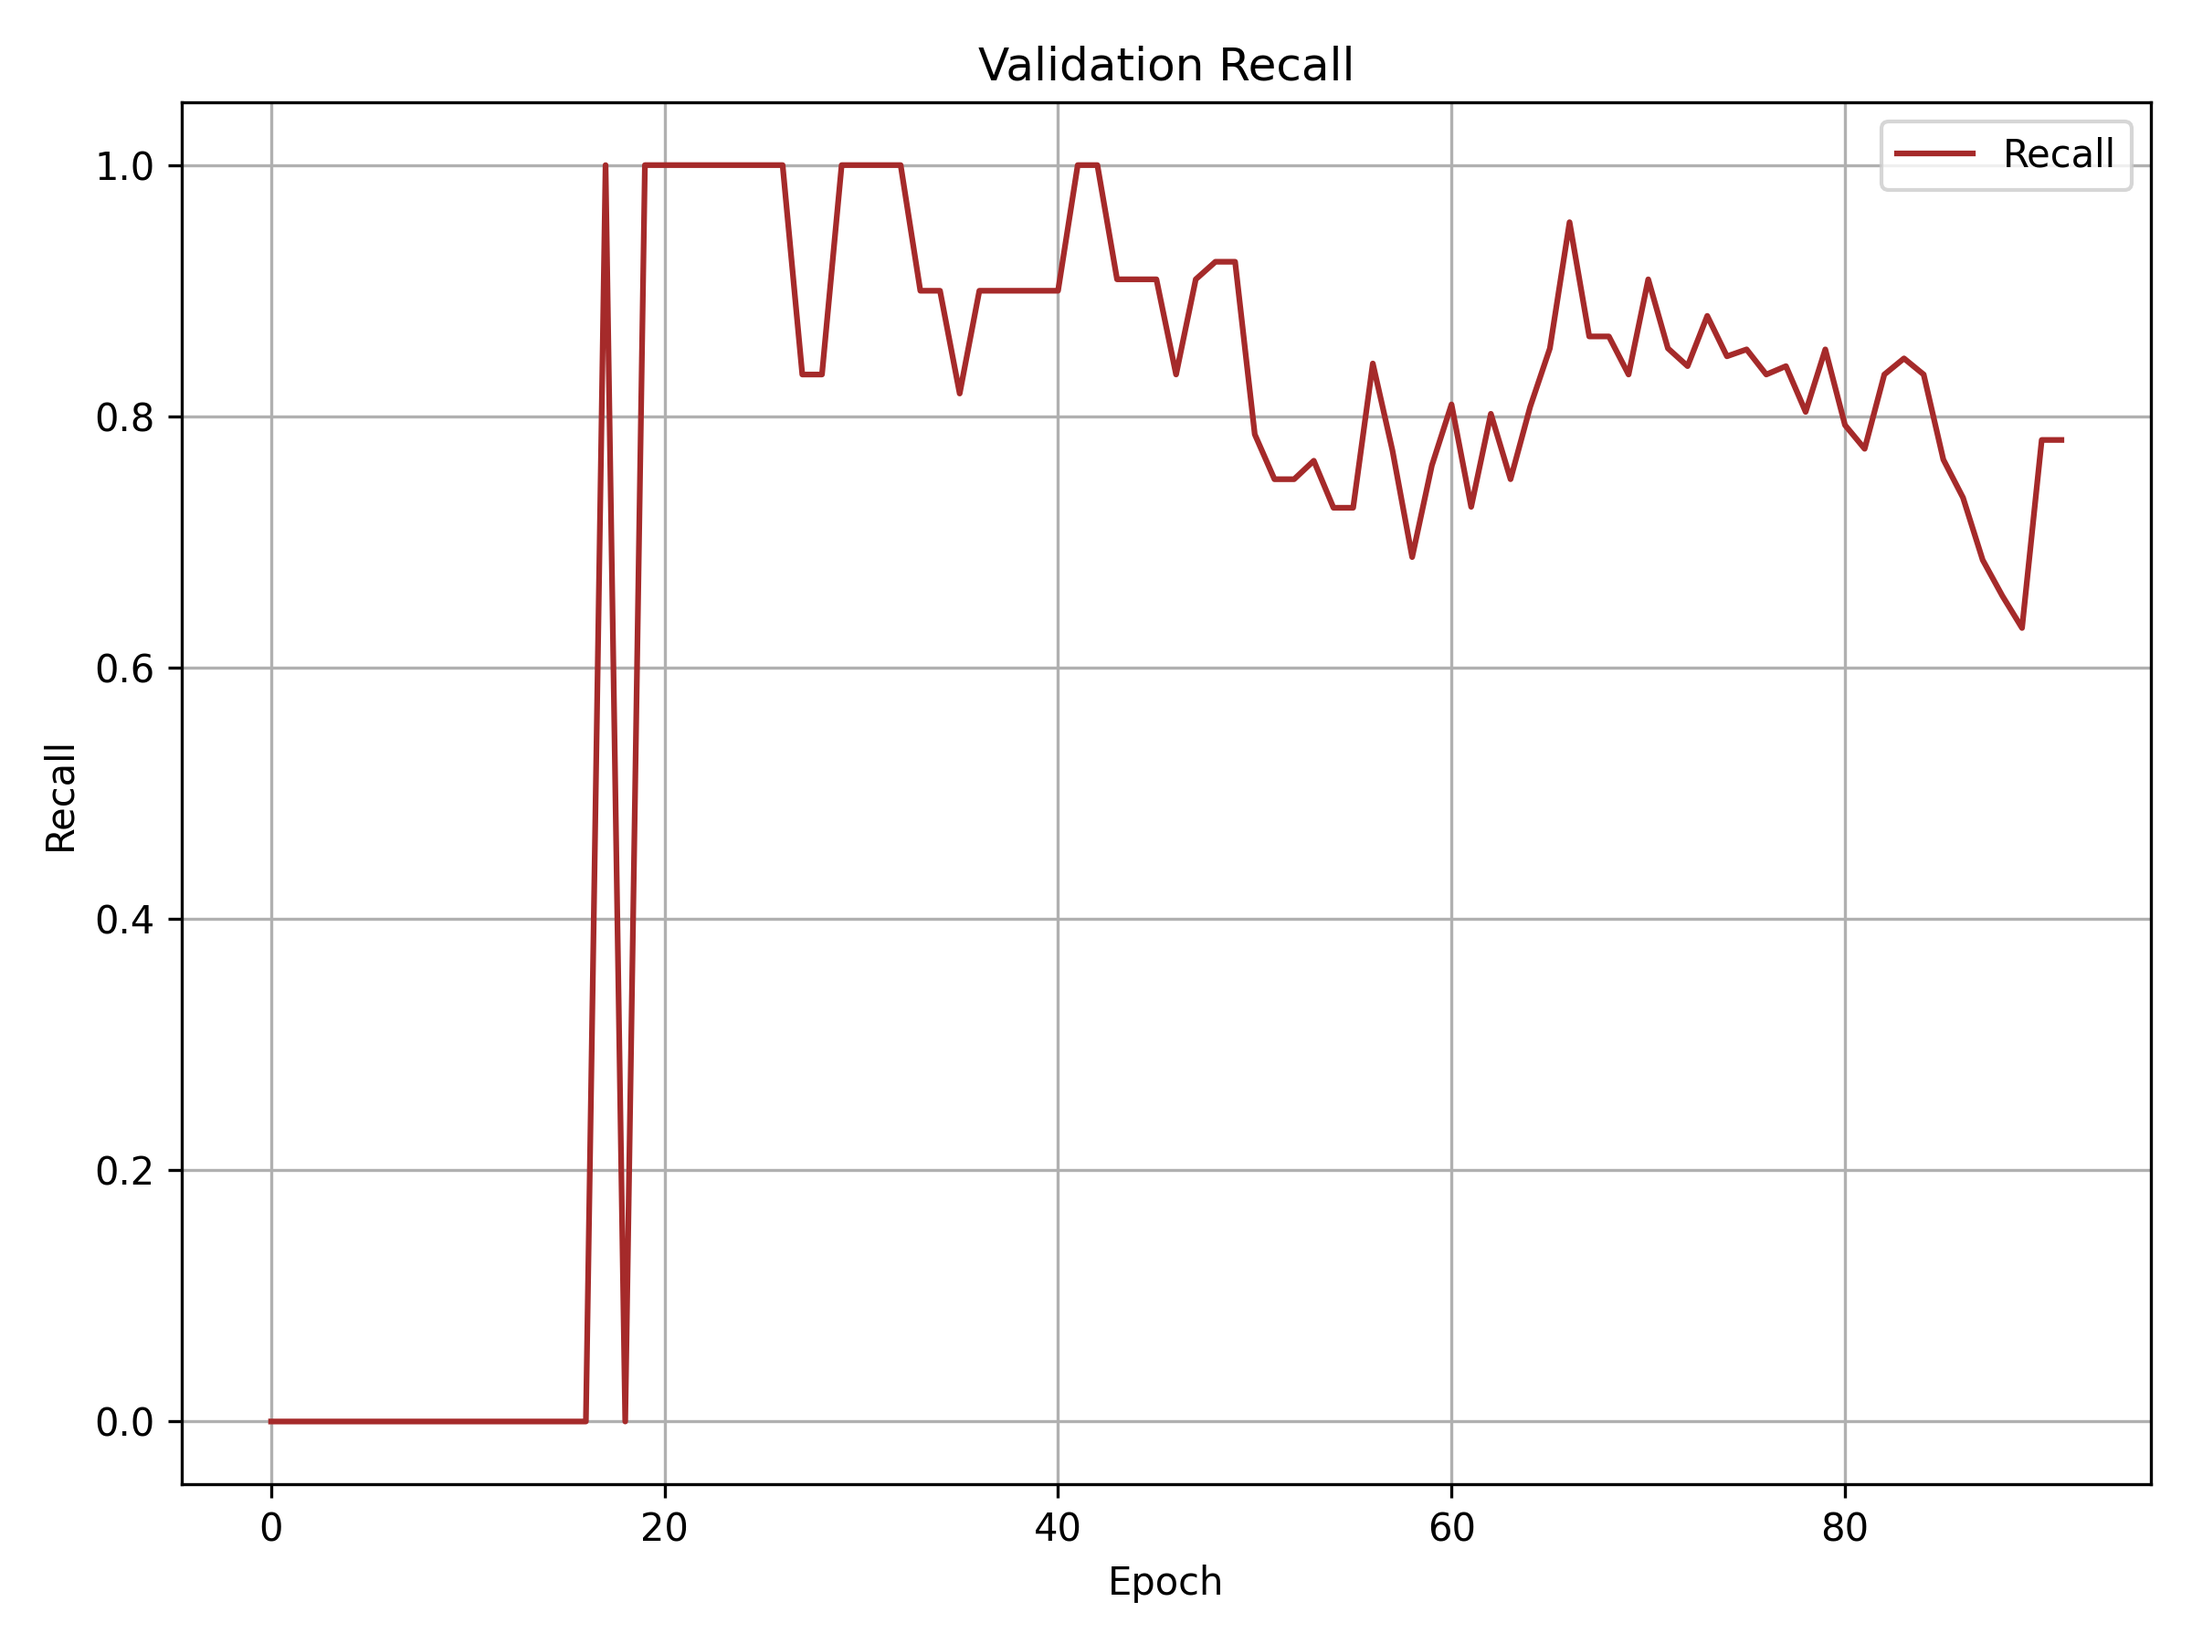
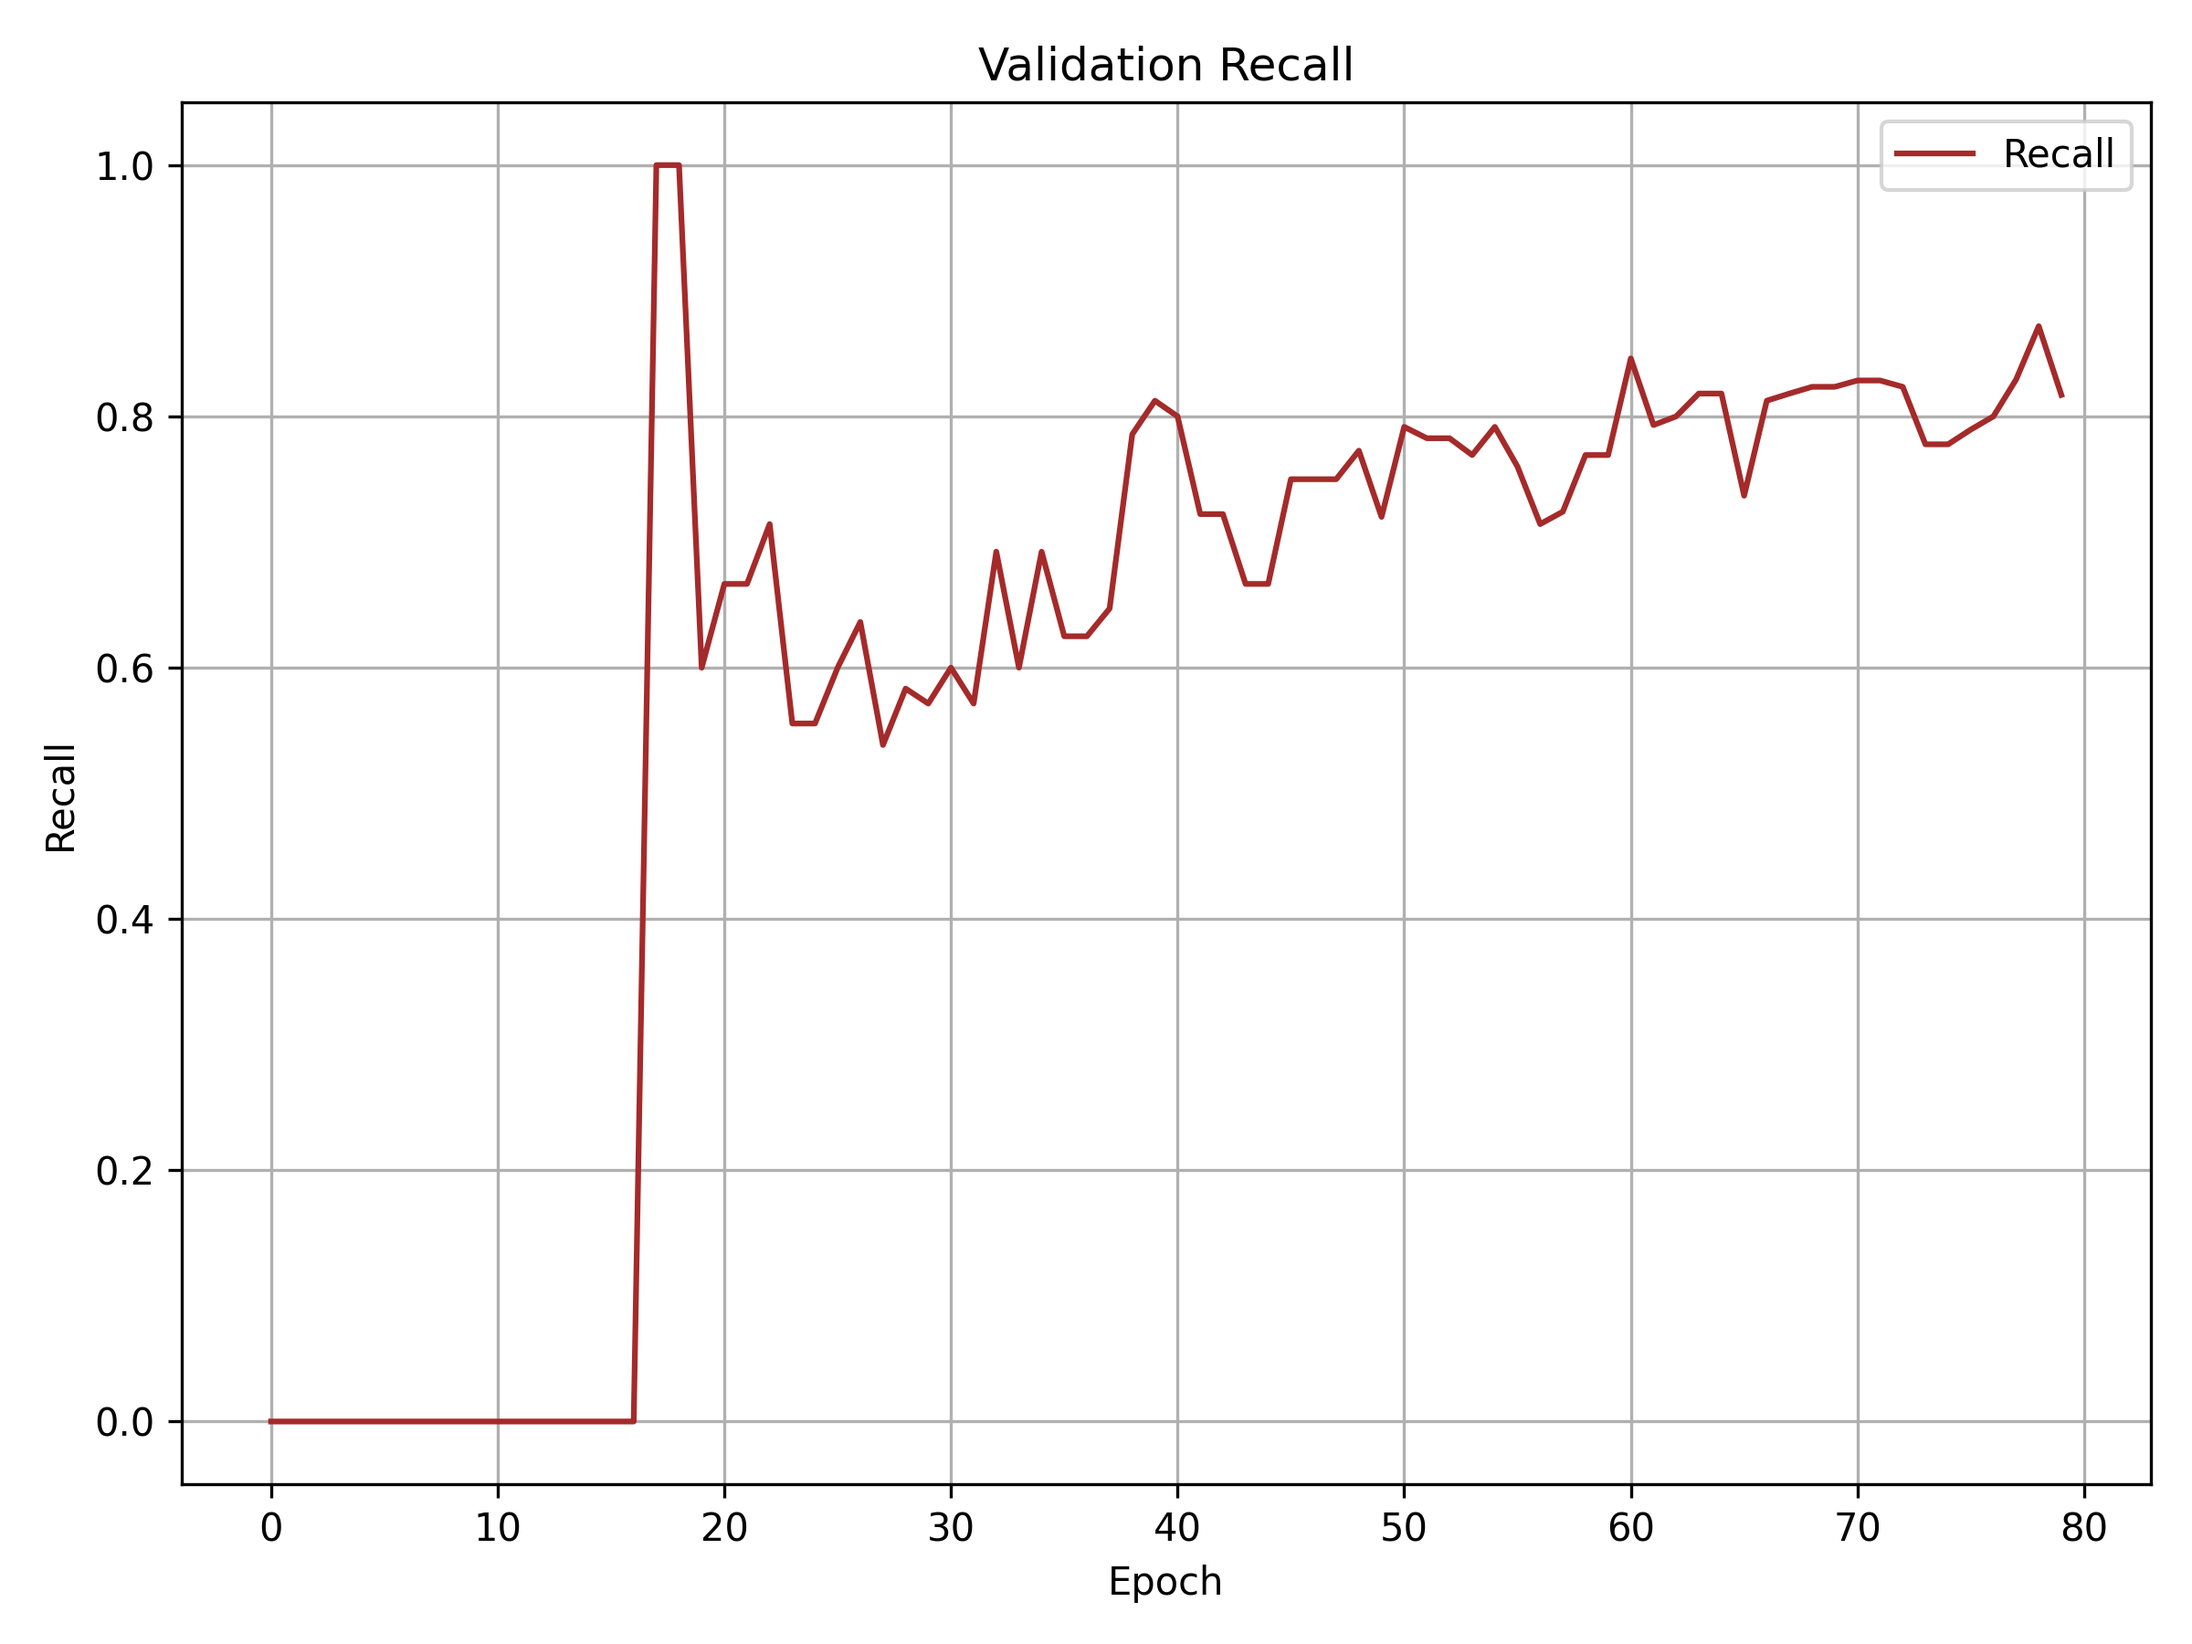
new_db

diff --git a/run.py b/run.py
@@ -20,7 +20,6 @@ def run_training(seed=None):
     lr = 1e-3
     num_epochs = 150
     patience = 20
-    #seed = 42
     
     # Usa seed solo se specificato, altrimenti sarà None
     random.seed(seed)
@@ -82,15 +81,15 @@ def run_training(seed=None):
         else:
             patience_counter += 1
             if patience_counter >= patience:
-                print(f"⏹ Early stopping at epoch {epoch+1}")
+                print(f" Early stopping at epoch {epoch+1}")
                 break
 
 
     if best_model_state is not None:
         model.load_state_dict(best_model_state)
 
-    print(f"✅ Best Validation Loss: {best_val_loss:.4f}")
-    print(f"📊 Average Inference Time: {np.mean(val_inference_times)*1000:.2f}ms")
+    print(f"Best Validation Loss: {best_val_loss:.4f}")
+    print(f"Average Inference Time: {np.mean(val_inference_times)*1000:.2f}ms")
 
     # === Final evaluation with confusion matrix ===
     final_val_loss, final_val_acc, final_val_precision, final_val_recall, final_val_f1, final_inf_time, y_true, y_pred = evaluate(model, val_loader, criterion, device, return_predictions=True)
@@ -107,7 +106,7 @@ def run_training(seed=None):
     plt.tight_layout()
     plt.savefig("train_loss.png", dpi=300)
     plt.close()
-    print("📊 Training loss plot salvato in train_loss.png")
+    print(" Training loss plot salvato in train_loss.png")
 
     # === Plot 2: Accuracy ===
     plt.figure(figsize=(8,6))
@@ -121,7 +120,7 @@ def run_training(seed=None):
     plt.tight_layout()
     plt.savefig("accuracy.png", dpi=300)
     plt.close()
-    print("📊 Accuracy plot salvato in accuracy.png")
+    print(" Accuracy plot salvato in accuracy.png")
 
     # === Plot 3a: Precision ===
     plt.figure(figsize=(8,6))
@@ -134,7 +133,7 @@ def run_training(seed=None):
     plt.tight_layout()
     plt.savefig("precision.png", dpi=300)
     plt.close()
-    print("📊 Precision plot salvato in precision.png")
+    print(" Precision plot salvato in precision.png")
 
     # === Plot 3b: Recall ===
     plt.figure(figsize=(8,6))
@@ -147,7 +146,7 @@ def run_training(seed=None):
     plt.tight_layout()
     plt.savefig("recall.png", dpi=300)
     plt.close()
-    print("📊 Recall plot salvato in recall.png")
+    print(" Recall plot salvato in recall.png")
 
     # === Plot 3c: F1-Score ===
     plt.figure(figsize=(8,6))
@@ -160,7 +159,7 @@ def run_training(seed=None):
     plt.tight_layout()
     plt.savefig("f1_score.png", dpi=300)
     plt.close()
-    print("📊 F1-Score plot salvato in f1_score.png")
+    print(" F1-Score plot salvato in f1_score.png")
 
 
     # === Plot 4: Average Inference Time ===
@@ -174,4 +173,4 @@ def run_training(seed=None):
     plt.tight_layout()
     plt.savefig("inference_time.png", dpi=300)
     plt.close()
-    print("📊 Inference time plot salvato in inference_time.png")
+    print(" Inference time plot salvato in inference_time.png")

diff --git a/server.py b/server.py
@@ -1,6 +1,6 @@
 import socket
 import struct
-from landmarks import landmarks_dist
+from landmarks import landmarks_dist, show_overlay
 import torch
 from model import FaceClassifier
 import joblib
@@ -57,6 +57,18 @@ def handle_client(conn, addr):
                 
                 conn.settimeout(PROCESSING_TIMEOUT)
                 png_data = recv_exact(conn, png_len)
+
+                # FLIP PNG
+                from PIL import Image
+                import io
+
+                png = Image.open(io.BytesIO(png_data))
+                # Flip verticale
+                png_flip = png.transpose(Image.FLIP_TOP_BOTTOM)
+                
+                with io.BytesIO() as output_bytes:
+                    png_flip.save(output_bytes, format='PNG')
+                    png_flip = output_bytes.getvalue()
                 
                 # Ricezione RAW
                 raw_len = struct.unpack('<I', recv_exact(conn, 4))[0]
@@ -66,7 +78,7 @@ def handle_client(conn, addr):
                 # Salvataggio temporaneo dei file
                 with NamedTemporaryFile(delete=False, suffix='.png') as png_file, \
                      NamedTemporaryFile(delete=False, suffix='.raw') as raw_file:
-                    png_file.write(png_data)
+                    png_file.write(png_flip)
                     raw_file.write(raw_data)
                     png_path = png_file.name
                     raw_path = raw_file.name
@@ -74,10 +86,10 @@ def handle_client(conn, addr):
                 try:
                     print("Processing landmarks...")
                     features = landmarks_dist(png_path, raw_path, "unknown", "neutral")
-                    
+                    show_overlay(png_path, raw_path, 640, 480)
                     predicted_label, confidence = predict_identity(features)
 
-                    print(f"✅ Prediction: {predicted_label} (confidence={confidence:.2f})")
+                    print(f"Prediction: {predicted_label} (confidence={confidence:.2f})")
                     conn.sendall(predicted_label.encode('utf-8') + b'\x00')
 
                 finally:
@@ -124,4 +136,3 @@ def run_server():
             except Exception as e:
                 print(f"Error accepting connection: {str(e)}")
                 continue
-

diff --git a/server_realtime.py b/server_realtime.py
@@ -1,7 +1,7 @@
 import socket
 import pyrealsense2 as rs
 import torch
-from landmarks import landmarks_dist
+from vale.landmarks import landmarks_dist
 from model import FaceClassifier
 from predict import predict_identity
 import numpy as np
@@ -42,13 +42,13 @@ def capture_and_process():
         print("Processing landmarks...")
         features = landmarks_dist(color_image, depth_image, "unknown", "neutral")    
         identity, confidence = predict_identity(features)
-        print(f"✅ Prediction: {identity} (confidence={confidence:.2f})")
+        print(f"Prediction: {identity} (confidence={confidence:.2f})")
         
         # Return both identity and confidence
         return {"identity": identity, "confidence": float(confidence)}
     
     except Exception as e:
-        print(f"❌ Error in capture_and_process: {str(e)}")
+        print(f"Error in capture_and_process: {str(e)}")
         return {"error": str(e)}
     finally:
         pipeline.stop()

diff --git a/test.py b/test.py
@@ -125,12 +125,12 @@ def run_test(seed=None):  # Aggiungi seed come parametro opzionale
     print("="*60)
     print("TEST RESULTS")
     print("="*60)
-    print(f"🧪 Test Loss: {test_loss:.4f}")
-    print(f"🧪 Test Accuracy: {test_acc*100:.2f}%")
-    print(f"🧪 Test Precision: {test_precision:.3f}")
-    print(f"🧪 Test Recall: {test_recall:.3f}")
-    print(f"🧪 Test F1-Score: {test_f1:.3f}")
-    print(f"🧪 Average Inference Time: {test_inf_time*1000:.2f}ms")
+    print(f"Test Loss: {test_loss:.4f}")
+    print(f"Test Accuracy: {test_acc*100:.2f}%")
+    print(f"Test Precision: {test_precision:.3f}")
+    print(f"Test Recall: {test_recall:.3f}")
+    print(f"Test F1-Score: {test_f1:.3f}")
+    print(f"Average Inference Time: {test_inf_time*1000:.2f}ms")
     print("="*60)
 
     # Test predizioni con unknown su un batch

diff --git a/main.py b/main.py
@@ -4,9 +4,9 @@ import numpy as np
 from config import config
 
 if __name__ == "__main__":
-    '''seed = 1
+    seed = 42
     run_training(seed=seed)  
-    run_test(seed=seed)'''
+    run_test(seed=seed)
     print("Avvio server TCP per ricevere immagini da Unity...")
     config()
     from server import run_server  
